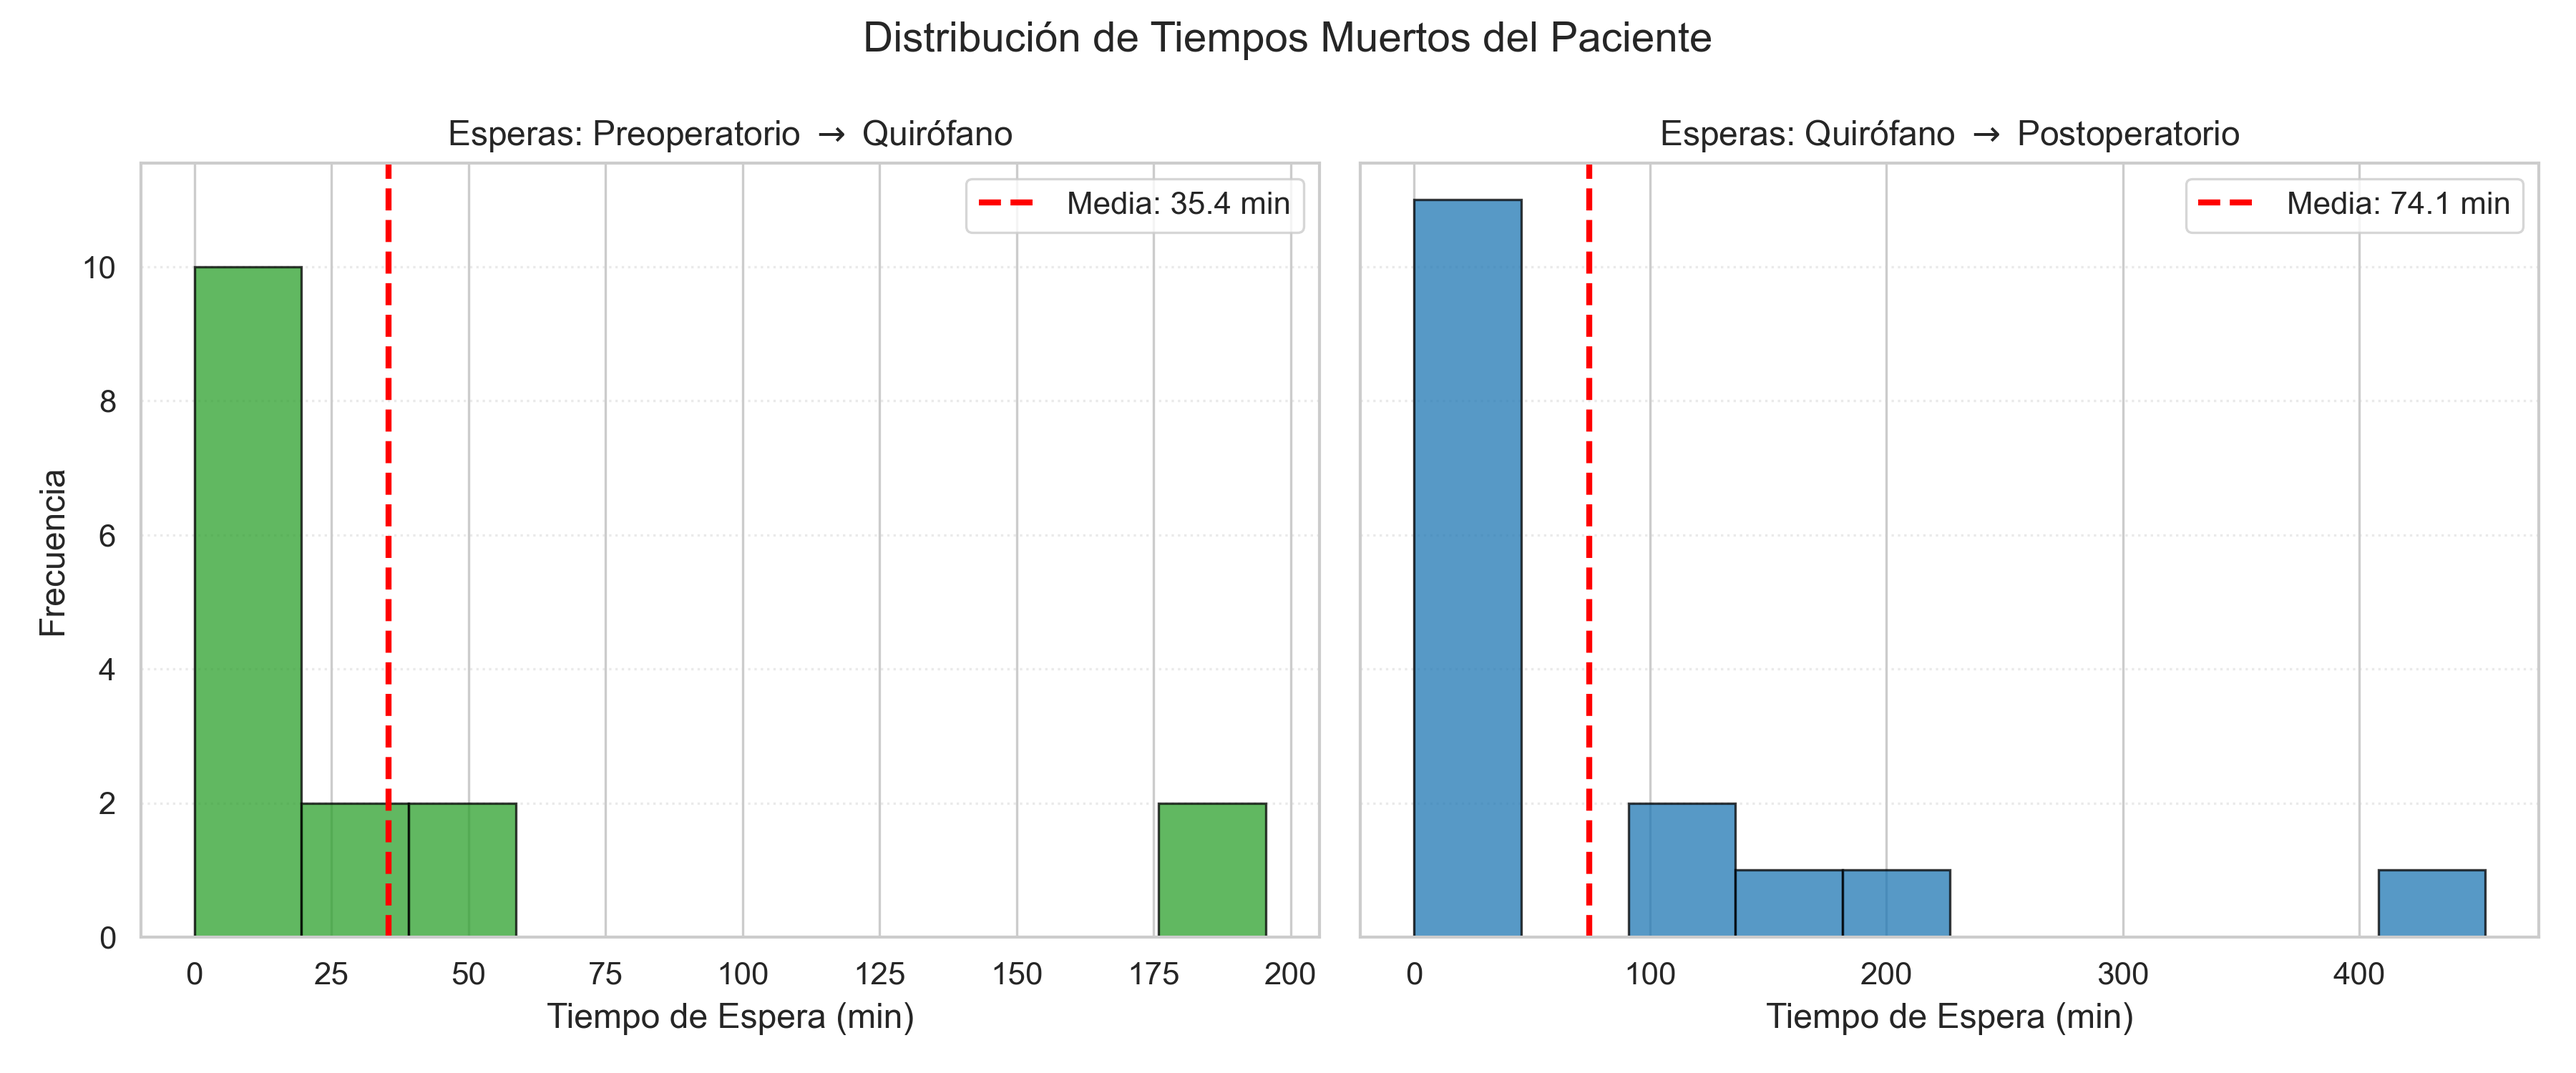
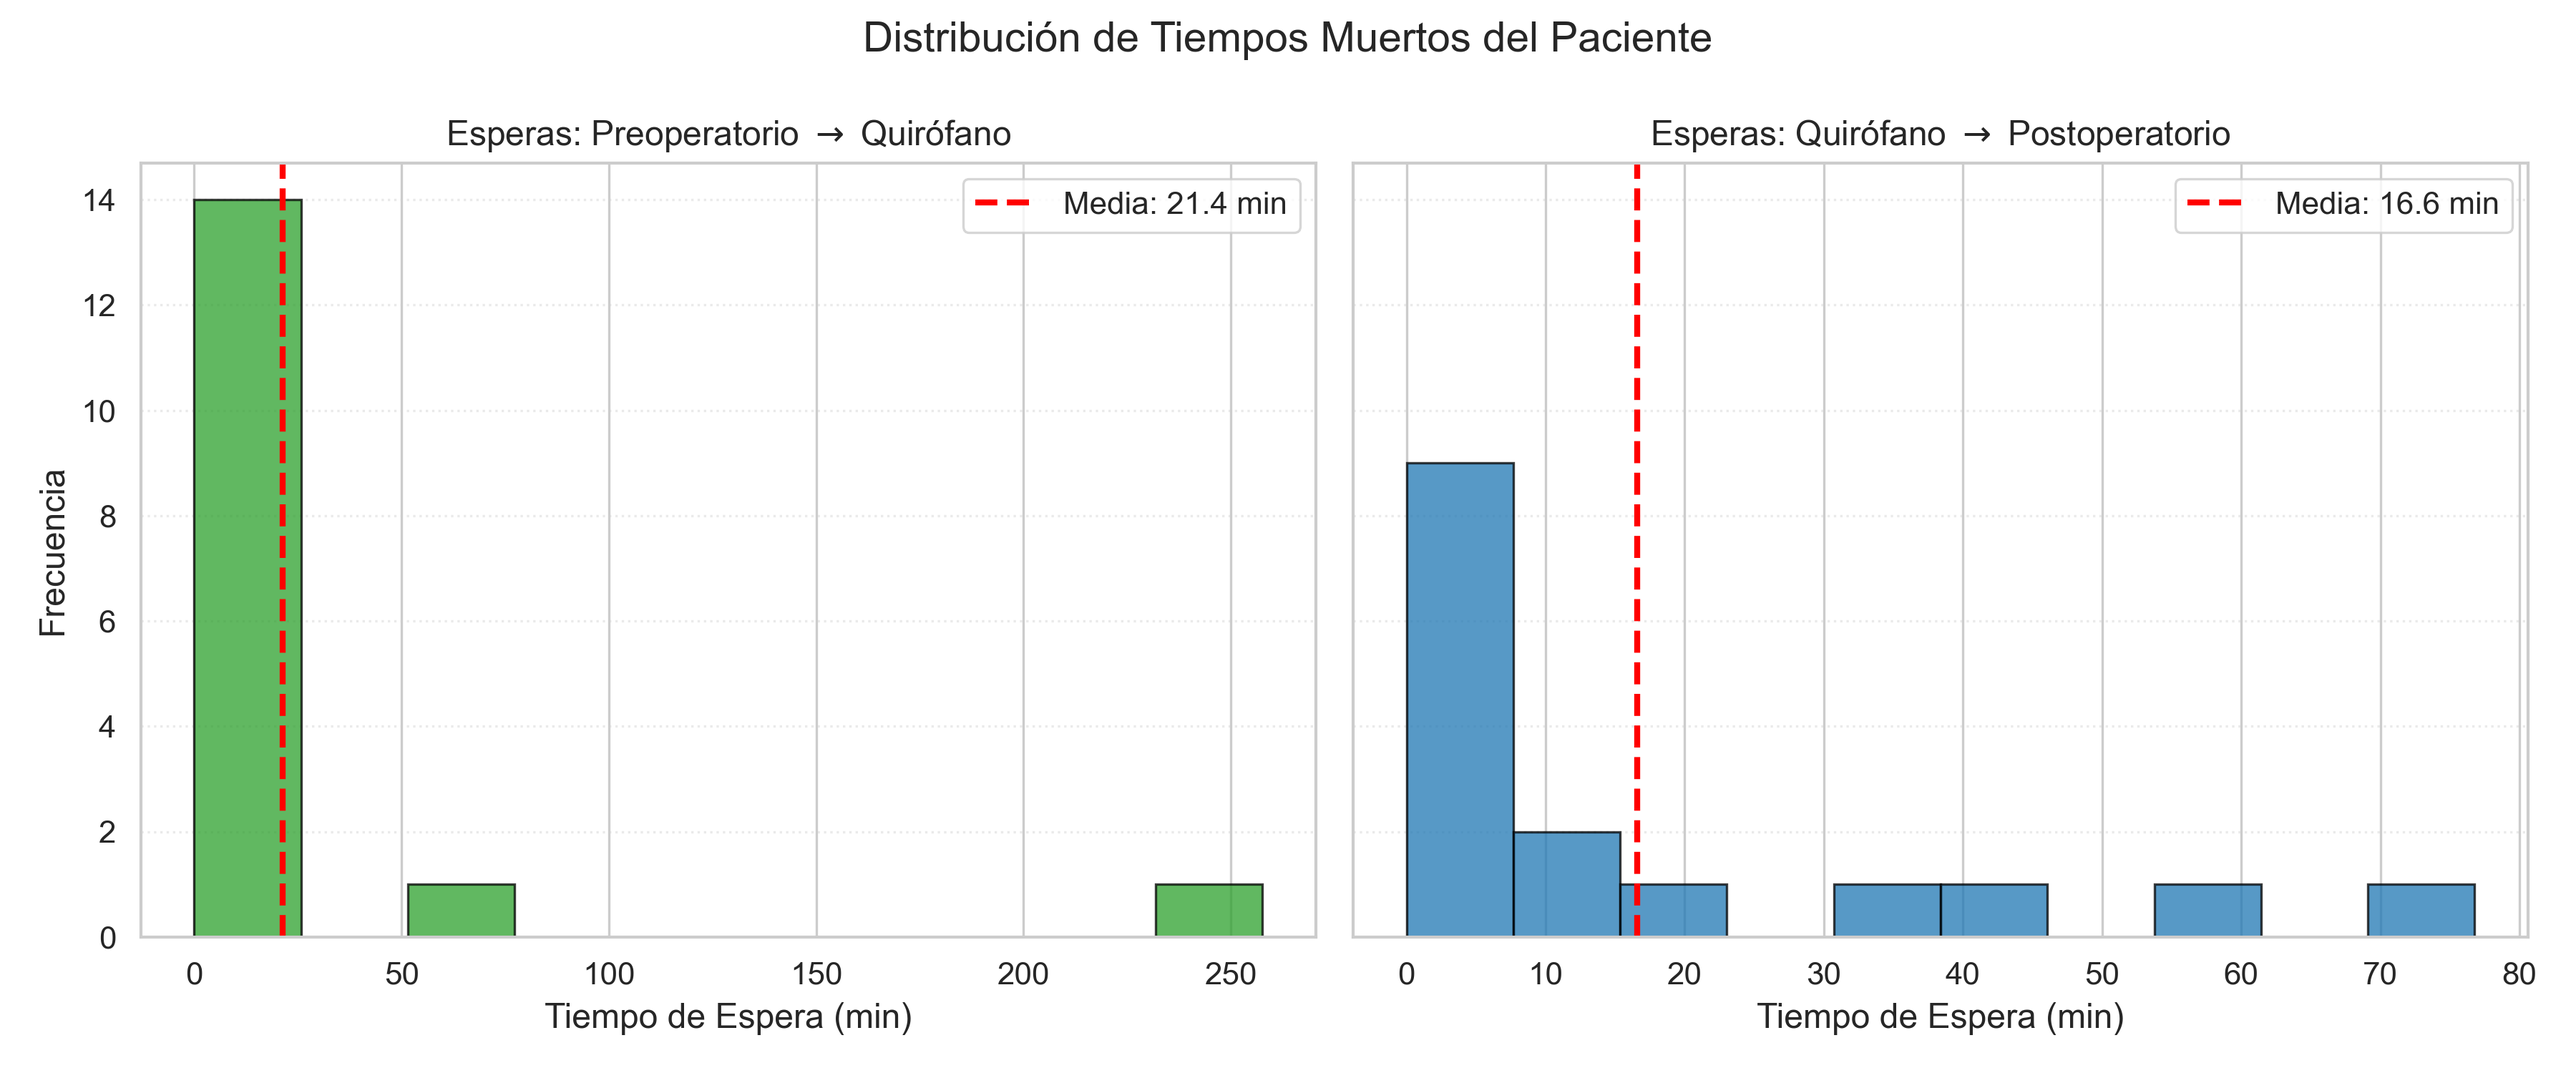
implementacion de calidad de costos, balanceo y tiempos de espera

diff --git a/src/post_processing.py b/src/post_processing.py
@@ -29,12 +29,16 @@ def extract_topology(s_pred, m_probs, p_time_medical, p_time_occupancy, J, I, R)
             })
     return task_data
 
-def calculate_makespan_from_structure(tasks, J):
+# --- MODIFICADO: Ahora calcula Makespan, Esperas Y Desbalance ---
+def calculate_metrics(tasks, J):
     machine_avail = {r: 0.0 for r in range(1, 13)} 
+    machine_work_time = {r: 0.0 for r in range(1, 13)} # Cuánto trabaja cada sala
     job_avail = {j: 0.0 for j in range(J)}
     tasks.sort(key=lambda x: x['pinn_start'])
     
     final_tasks = []
+    total_wait_time = 0.0 
+    
     for t in tasks:
         j = t['job_id']
         m_global = t['global_machine_id']
@@ -42,11 +46,16 @@ def calculate_makespan_from_structure(tasks, J):
         dur_occ = t['dur_occupancy']
         
         start_t = max(job_avail[j], machine_avail[m_global])
+        
+        if t['stage_id'] > 0: 
+            total_wait_time += (start_t - job_avail[j])
+            
         end_t_patient = start_t + dur_med
         end_t_machine = start_t + dur_occ
         
         job_avail[j] = end_t_patient
         machine_avail[m_global] = end_t_machine
+        machine_work_time[m_global] += dur_med # Acumulamos el trabajo de esta sala
         
         new_t = t.copy()
         new_t['real_start'] = start_t
@@ -55,18 +64,31 @@ def calculate_makespan_from_structure(tasks, J):
         final_tasks.append(new_t)
         
     makespan = max([t['real_end'] for t in final_tasks])
-    return makespan, final_tasks
+    
+    # Calcular el desbalance (Desviación estándar del tiempo trabajado por etapa)
+    desbalance_total = 0.0
+    for stage in range(3):
+        cargas_etapa = [machine_work_time[m] for m in range((stage*4)+1, (stage*4)+5)]
+        desbalance_total += np.std(cargas_etapa)
+        
+    return makespan, total_wait_time, desbalance_total, final_tasks
 
-#Metaheuristica SA
+# --- MODIFICADO: Metaheurística SA Multi-Objetivo con Balanceo ---
 def simulated_annealing_optimization(task_data, J, iterations=5000, initial_temp=100.0, cooling_rate=0.995):
-    print("Iniciando Recocido Simulado (SA)...")
+    print("Iniciando Recocido Simulado Multi-Objetivo Avanzado (SA)...")
     best_tasks = copy.deepcopy(task_data)
     current_tasks = copy.deepcopy(task_data)
     
-    best_makespan, best_tasks = calculate_makespan_from_structure(best_tasks, J)
-    current_makespan = best_makespan
+    best_makespan, best_waits, best_imb, best_tasks = calculate_metrics(best_tasks, J)
     
-    print(f"Makespan CINN (Topología Inicial): {best_makespan:.2f} min")
+    # PESOS DE IMPORTANCIA:
+    peso_espera = 0.15   # Cuida al paciente sin destruir el Makespan
+    peso_balance = 0.50  # Fuerza a que todos los pabellones trabajen por igual
+    
+    best_cost = best_makespan + (peso_espera * best_waits) + (peso_balance * best_imb)
+    current_cost = best_cost
+    
+    print(f"Inicio SA -> Makespan: {best_makespan:.1f} | Espera: {best_waits:.1f} | Desbalance: {best_imb:.1f}")
     
     machine_ranges = {0: [1, 2, 3, 4], 1: [5, 6, 7, 8], 2: [9, 10, 11, 12]}
     T = initial_temp
@@ -87,38 +109,43 @@ def simulated_annealing_optimization(task_data, J, iterations=5000, initial_temp
         stage_name = ["PRE", "QX", "POST"][stage]
         neighbor_tasks[idx]['resource_name'] = f"{stage_name}-{new_machine - (stage * 4)}"
         
-        neighbor_makespan, updated_schedule = calculate_makespan_from_structure(neighbor_tasks, J)
+        neighbor_makespan, neighbor_waits, neighbor_imb, updated_schedule = calculate_metrics(neighbor_tasks, J)
+        neighbor_cost = neighbor_makespan + (peso_espera * neighbor_waits) + (peso_balance * neighbor_imb)
         
-        delta = neighbor_makespan - current_makespan
+        delta = neighbor_cost - current_cost
         
         if delta < 0 or math.exp(-delta / T) > random.random():
             current_tasks = updated_schedule
-            current_makespan = neighbor_makespan
+            current_cost = neighbor_cost
             
-            if current_makespan < best_makespan:
-                best_makespan = current_makespan
+            if neighbor_cost < best_cost:
+                best_cost = neighbor_cost
+                best_makespan = neighbor_makespan
+                best_waits = neighbor_waits
+                best_imb = neighbor_imb
                 best_tasks = copy.deepcopy(current_tasks)
                 
         T = T * cooling_rate
 
-    print(f"Makespan Final Optimizado (SA): {best_makespan:.2f} min")
+    print(f"Final SA -> Makespan: {best_makespan:.1f} | Espera: {best_waits:.1f} | Desbalance: {best_imb:.1f}")
     return best_tasks
 
-#Algoritmo Hill Climbing
+# --- Algoritmo Hill Climbing (Actualizado para compatibilidad) ---
 def hill_climbing_optimization(task_data, J, iterations=2000):
     print("Iniciando Búsqueda Local (Hill Climbing)...")
     best_tasks = copy.deepcopy(task_data)
     current_tasks = copy.deepcopy(task_data)
     
-    best_makespan, best_tasks = calculate_makespan_from_structure(best_tasks, J)
-    current_makespan = best_makespan
+    best_makespan, best_waits, best_imb, best_tasks = calculate_metrics(best_tasks, J)
     
-    print(f"Makespan CINN (Topología Inicial): {best_makespan:.2f} min")
+    peso_espera = 0.15
+    peso_balance = 0.50
+    best_cost = best_makespan + (peso_espera * best_waits) + (peso_balance * best_imb)
+    current_cost = best_cost
     
     machine_ranges = {0: [1, 2, 3, 4], 1: [5, 6, 7, 8], 2: [9, 10, 11, 12]}
     
     for k in range(iterations):
-        # 1. Crear vecino (mutación aleatoria)
         neighbor_tasks = copy.deepcopy(current_tasks)
         idx = np.random.randint(0, len(neighbor_tasks))
         
@@ -134,18 +161,17 @@ def hill_climbing_optimization(task_data, J, iterations=2000):
         stage_name = ["PRE", "QX", "POST"][stage]
         neighbor_tasks[idx]['resource_name'] = f"{stage_name}-{new_machine - (stage * 4)}"
         
-        # Evaluar vecino
-        neighbor_makespan, updated_schedule = calculate_makespan_from_structure(neighbor_tasks, J)
+        neighbor_makespan, neighbor_waits, neighbor_imb, updated_schedule = calculate_metrics(neighbor_tasks, J)
+        neighbor_cost = neighbor_makespan + (peso_espera * neighbor_waits) + (peso_balance * neighbor_imb)
         
-        # Aceptar SOLO si es MEJOR o IGUAL
-        if neighbor_makespan <= current_makespan:
+        if neighbor_cost <= current_cost:
             current_tasks = updated_schedule
-            current_makespan = neighbor_makespan
+            current_cost = neighbor_cost
             
-            # Actualizar el mejor global encontrado
-            if current_makespan < best_makespan:
-                best_makespan = current_makespan
+            if current_cost < best_cost:
+                best_cost = current_cost
+                best_makespan = neighbor_makespan
+                best_waits = neighbor_waits
                 best_tasks = copy.deepcopy(current_tasks)
 
-    print(f"Makespan Final Optimizado (Hill Climbing): {best_makespan:.2f} min")
     return best_tasks

diff --git a/README.md b/README.md
@@ -1,5 +1,7 @@
 # CINN-KKT Hospital Surgery Scheduler
 
+# Objetivo de la rama
+En esta rama se busca una optimizacion mayor del modelo buscando distintos objetivos (calidad de tiempo de espera, optimizacion de costos del hospital, makespan, balanceo de carga en hospital, etc.)
 
 ## Descripción del Proyecto
 
